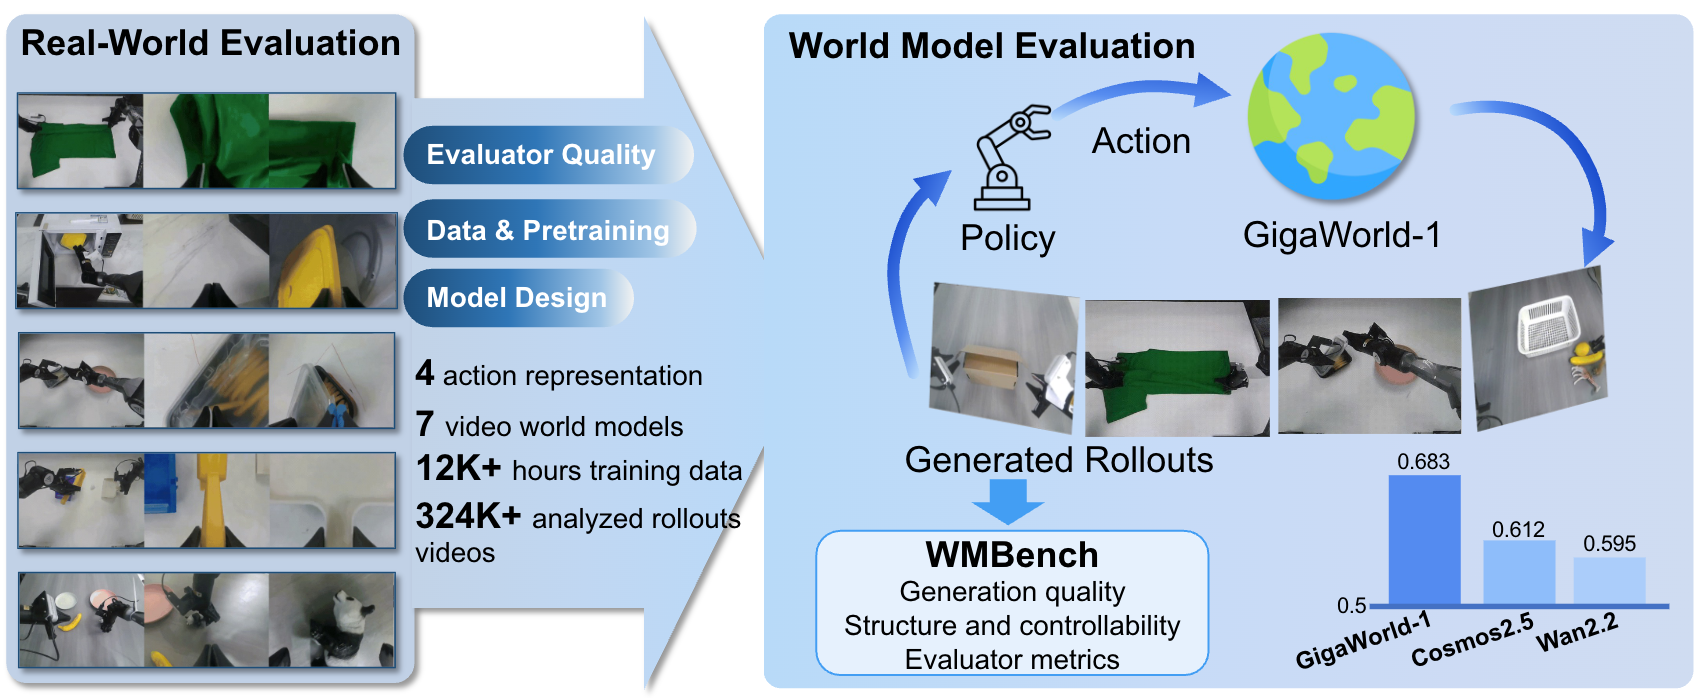
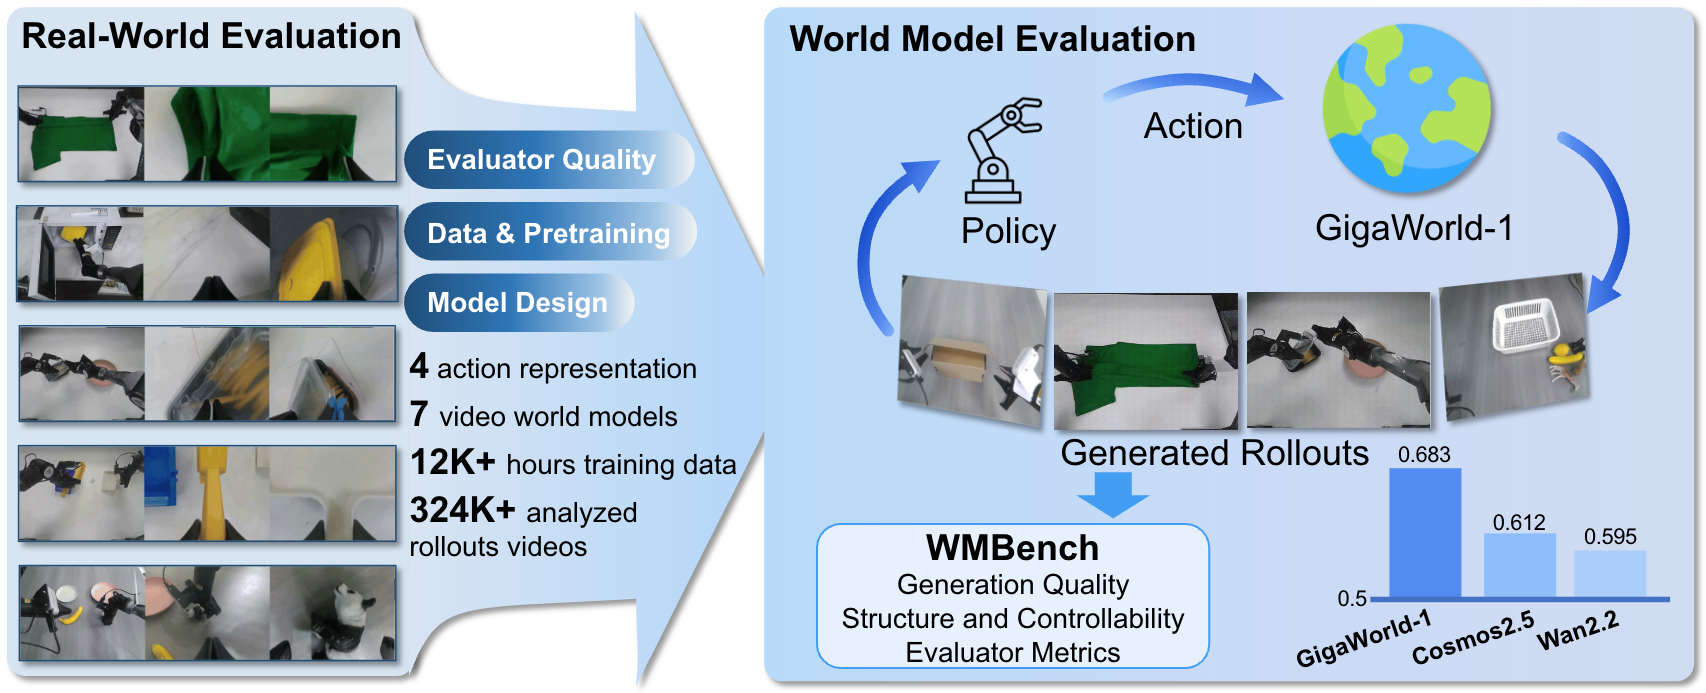
fix teaser

Changed region(s): [[0.4354, 0.0, 1.0, 1.0], [0.0, 0.0, 0.4665, 1.0], [0.8709, 0.7273, 0.9642, 0.8182]]

diff --git a/index.html b/index.html
@@ -90,12 +90,12 @@
             <div class="btn-group">
                 <a class="btn btn-primary btn-arxiv btn-with-logo" href="#"><span class="btn-logo btn-logo-arxiv">arXiv</span>Paper (PDF)</a>
                 <a class="btn btn-secondary btn-with-logo" href="https://github.com/open-gigaai/giga-world-1"><svg class="btn-logo" viewBox="0 0 24 24" aria-hidden="true"><path d="M12 .5C5.65.5.5 5.65.5 12c0 5.1 3.29 9.4 7.86 10.93.58.1.79-.25.79-.56v-2.14c-3.2.7-3.87-1.36-3.87-1.36-.52-1.34-1.28-1.7-1.28-1.7-1.05-.72.08-.7.08-.7 1.16.08 1.77 1.2 1.77 1.2 1.03 1.76 2.7 1.25 3.36.95.1-.75.4-1.25.73-1.54-2.55-.29-5.23-1.28-5.23-5.68 0-1.25.45-2.28 1.19-3.08-.12-.29-.52-1.46.11-3.04 0 0 .97-.31 3.17 1.18A10.9 10.9 0 0 1 12 6.07c.98 0 1.96.13 2.88.39 2.2-1.49 3.17-1.18 3.17-1.18.63 1.58.23 2.75.11 3.04.74.8 1.19 1.83 1.19 3.08 0 4.42-2.69 5.39-5.25 5.67.42.36.79 1.07.79 2.16v3.14c0 .31.21.67.8.56A11.51 11.51 0 0 0 23.5 12C23.5 5.65 18.35.5 12 .5Z"/></svg>Code</a>
-                <a class="btn btn-secondary btn-with-logo" href="https://huggingface.co/datasets/GigaAI-Research/Giga-World-1-Toydata"><span class="btn-logo btn-logo-huggingface" aria-hidden="true">🤗</span>Dataset<span class="btn-beta-tag">Beta</span></a>
+                <a class="btn btn-secondary btn-with-logo" href="https://huggingface.co/datasets/GigaAI-Research/Giga-World-1-Toydata"><span class="btn-logo btn-logo-huggingface" aria-hidden="true">🤗</span>ToyDataset</a>
+                <a class="btn btn-secondary btn-with-logo" href="https://huggingface.co/datasets/open-gigaai/CVPR-2026-WorldModel-Track-Dataset"><span class="btn-logo btn-logo-huggingface" aria-hidden="true">🤗</span>Dataset<span class="btn-beta-tag">CVPR</span></a>
                 <a class="btn btn-secondary btn-with-logo" href="https://huggingface.co/GigaAI-Research/Giga-World-1"><span class="btn-logo btn-logo-huggingface" aria-hidden="true">🤗</span>Model</a>
-                <span class="btn btn-secondary btn-with-logo btn-coming-soon" aria-disabled="true">
+                <a class="btn btn-secondary btn-with-logo" href="https://huggingface.co/spaces/open-gigaai/CVPR-2026-WorldModel-Track-LeaderBoard">
                     <span class="btn-logo btn-logo-bench" aria-hidden="true">📊</span>Benchmark
-                    <span class="btn-soon-tag">Coming Soon</span>
-                </span>
+                </a>
             </div>
         </header>
 